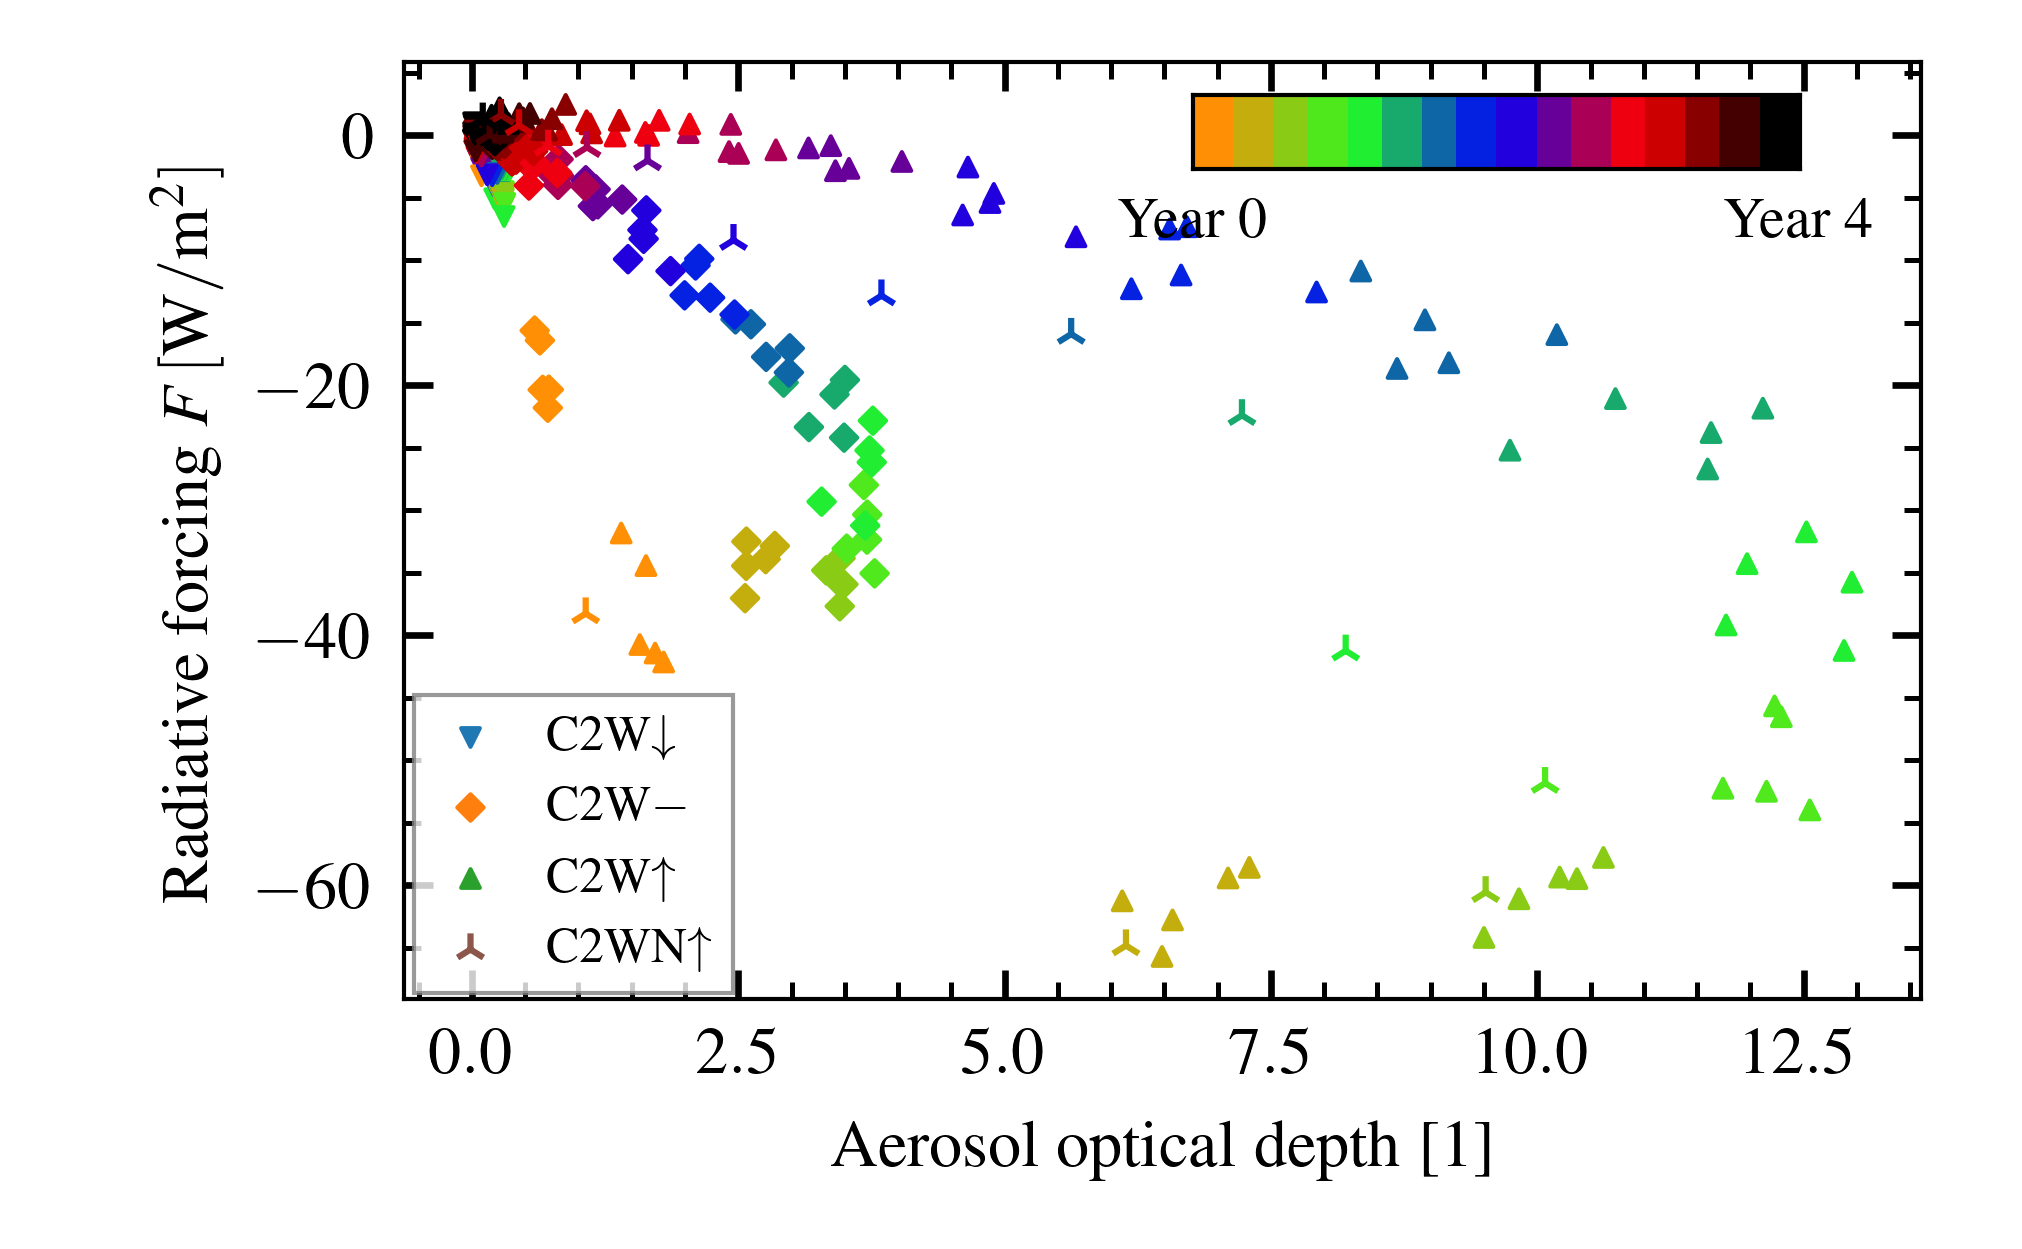
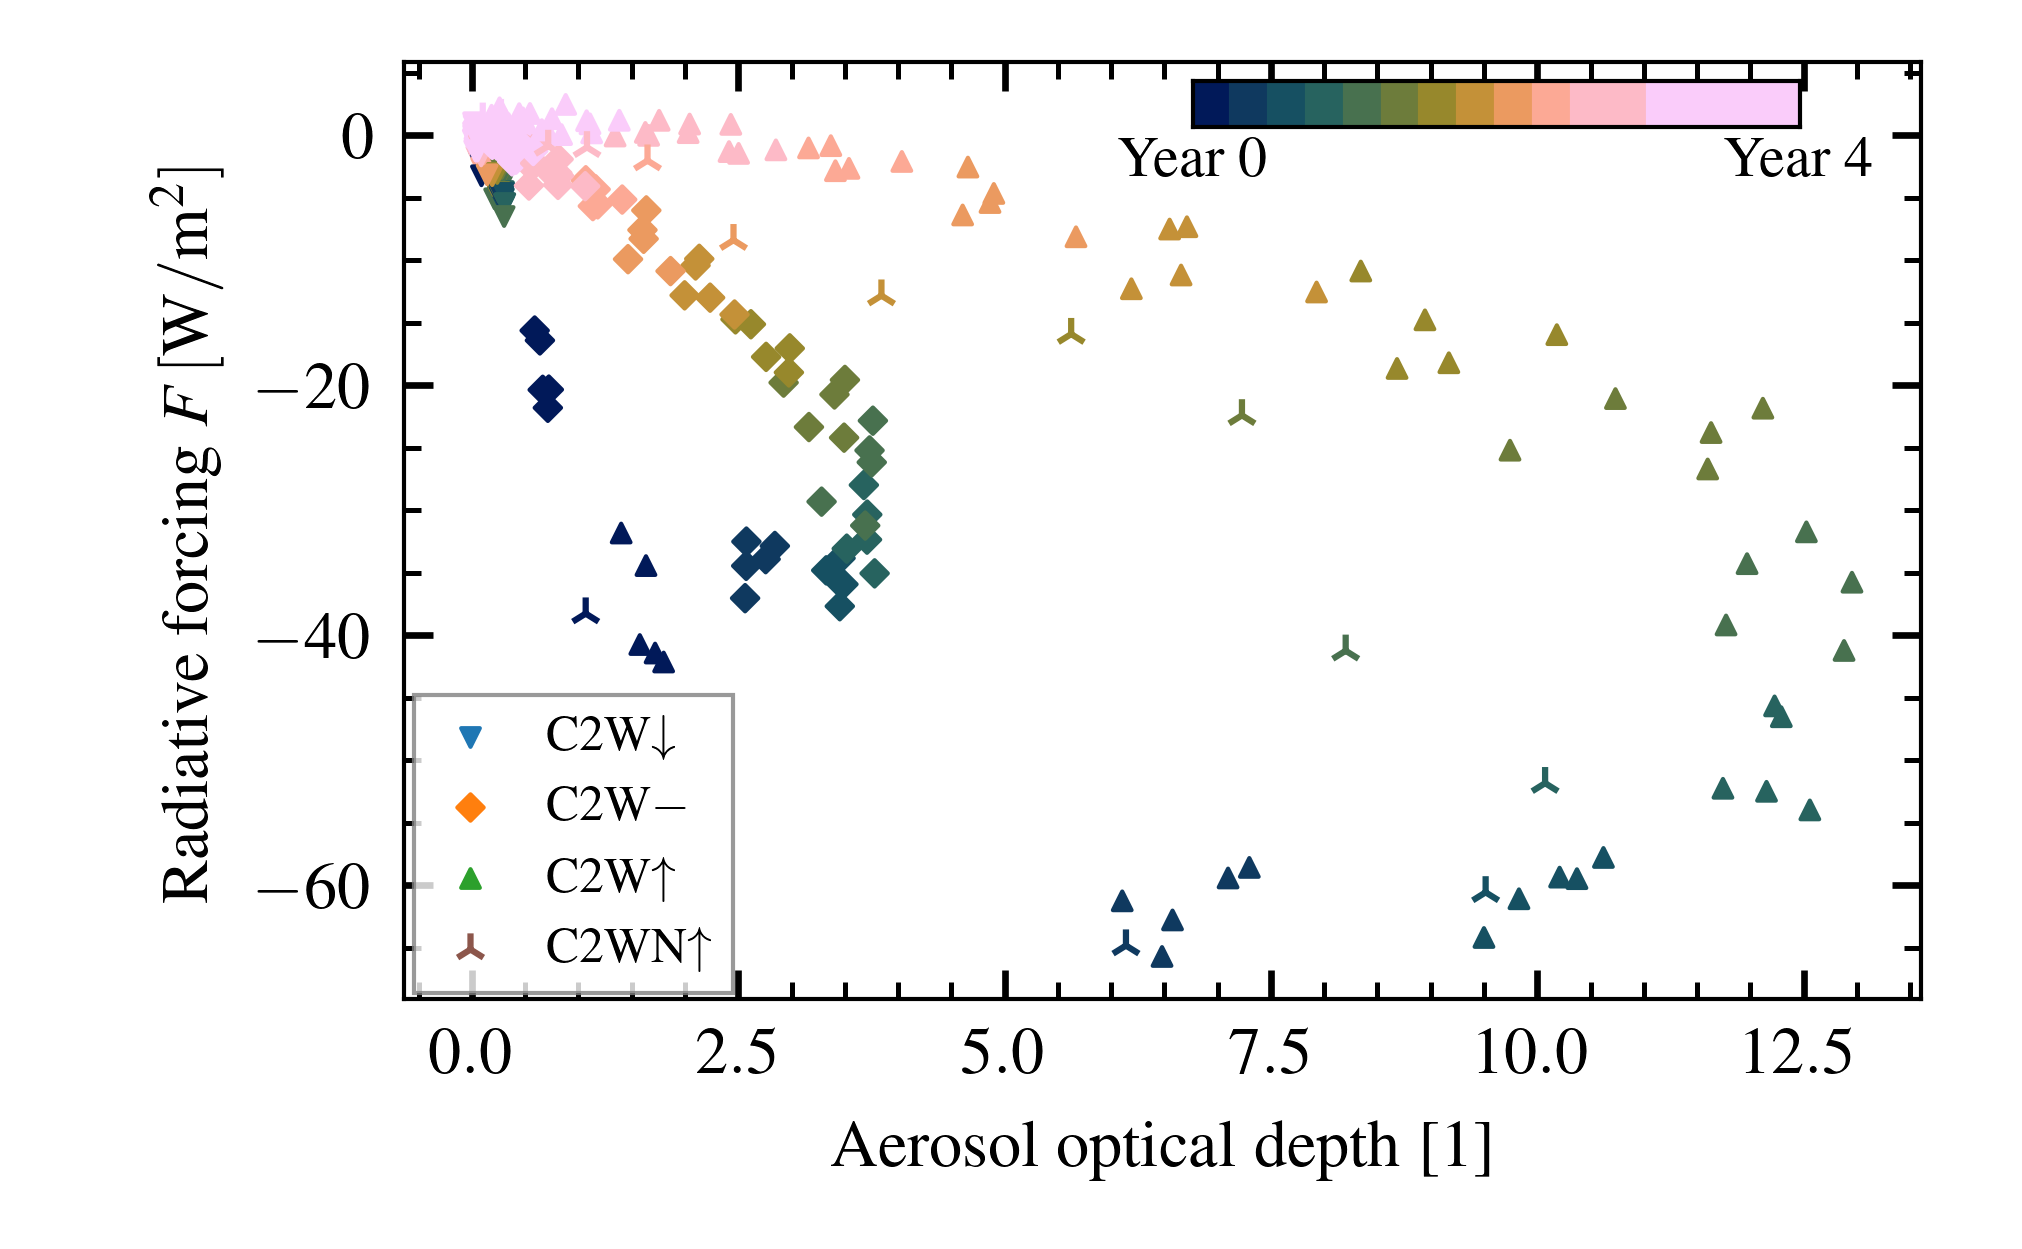
chore: use batlow colour map from cmcrameri

diff --git a/templateV5.tex b/templateV5.tex
@@ -218,9 +218,9 @@ data consist of January and July eruptions.)
 
 \subsection{Background}
 
-Radiative forcing is calculated as the difference in the net \( \acrshort{fsnt} +
-\acrshort{flnt} \) all-sky \acrshort{toa} energy imbalance between volcanic simulations
-and a control simulation (definition as in \citet{marshall2020}). The \acrshort{cesm2}
+Radiative forcing is calculated as the difference in the net \( \mathrm{SW} +
+\mathrm{LW} \) all-sky \acrshort{toa} energy imbalance between volcanic simulations and
+a control simulation (definition as in \citet{marshall2020}). The \acrshort{cesm2}
 provide the output variables \acrfull{flnt} and \acrfull{fsnt}. The \acrshort{aod} is
 obtained from the \acrfull{aodm}, while global temperature is saved by \acrshort{cesm2}
 to the variable \acrfull{trefht}. These four output variables are all that are used
